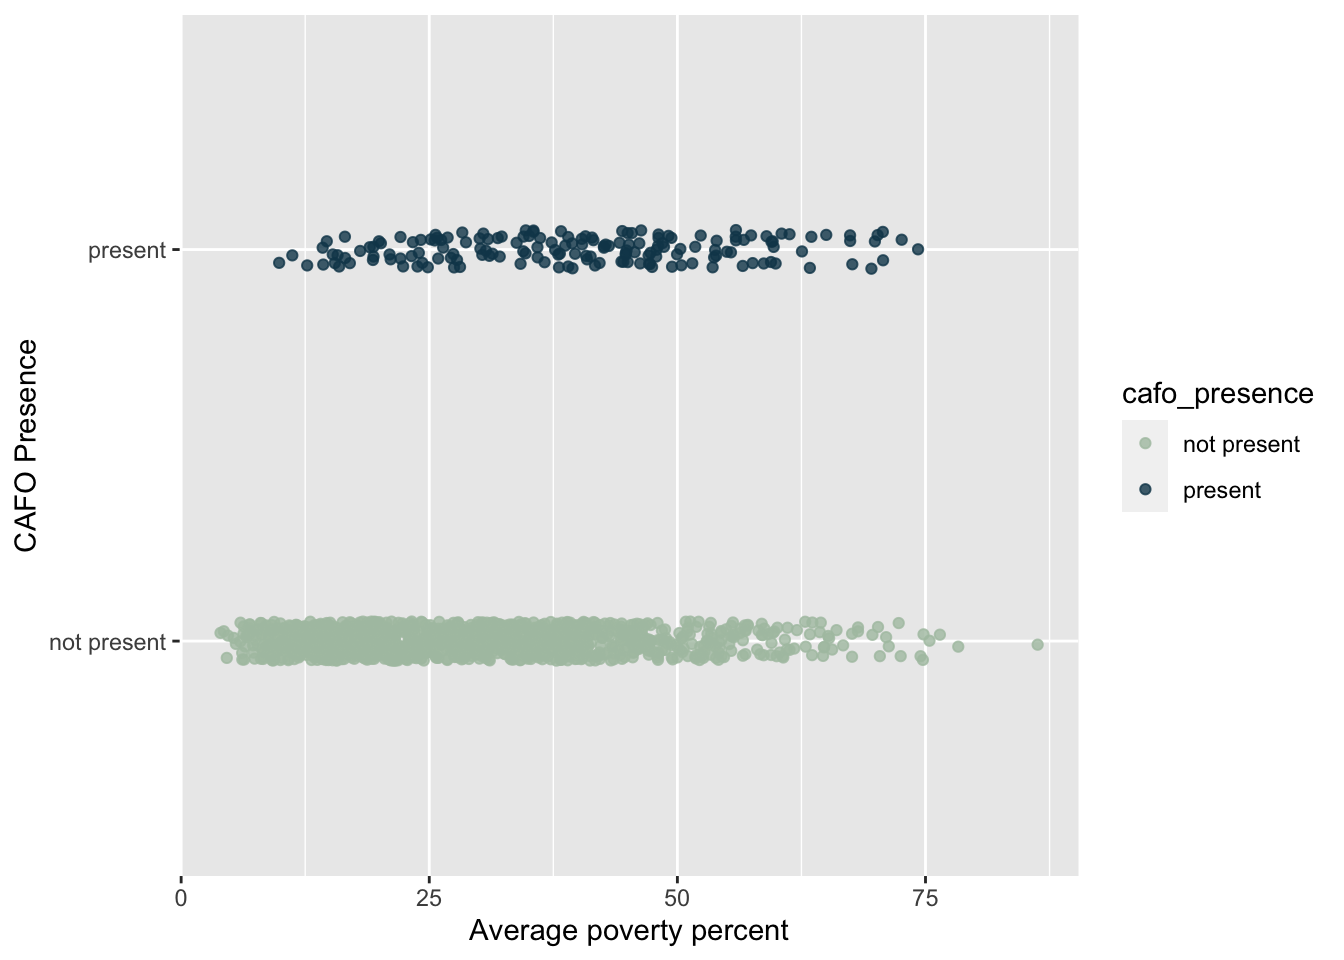
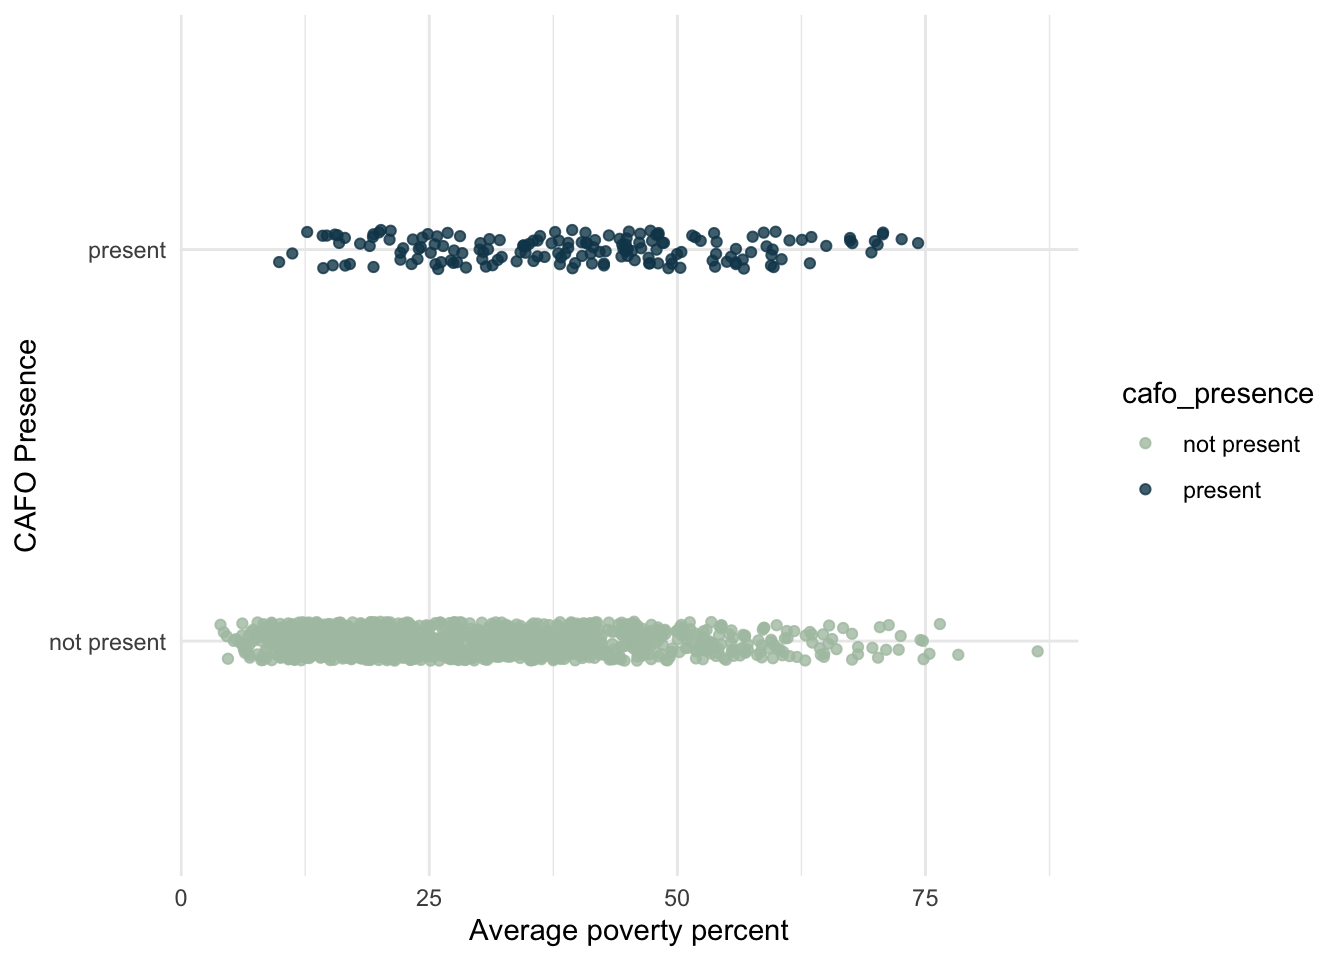
updating cafo blog plots

diff --git a/docs/posts/2022-12-03-cafo-presence /index.html b/docs/posts/2022-12-03-cafo-presence /index.html
@@ -206,7 +206,6 @@ code span.wa { color: #60a0b0; font-weight: bold; font-style: italic; } /* Warni
 <div class="quarto-title">
 <h1 class="title">Predicting CAFO presence in California based on poverty rates</h1>
   <div class="quarto-categories">
-    <div class="quarto-category">MEDS</div>
     <div class="quarto-category">R</div>
     <div class="quarto-category">Statistical Analysis</div>
     <div class="quarto-category">Binary Logistic Regression</div>
@@ -219,23 +218,16 @@ code span.wa { color: #60a0b0; font-weight: bold; font-style: italic; } /* Warni
   </div>
 </div>
 
-<div class="quarto-title-meta-author">
-  <div class="quarto-title-meta-heading">Author</div>
-  <div class="quarto-title-meta-heading">Affiliation</div>
-  
-    <div class="quarto-title-meta-contents">
-    Alex Reed 
-  </div>
-    <div class="quarto-title-meta-contents">
-        <p class="affiliation">
-            MEDS
-          </p>
-      </div>
-    </div>
 
 <div class="quarto-title-meta">
 
-      
+    <div>
+    <div class="quarto-title-meta-heading">Author</div>
+    <div class="quarto-title-meta-contents">
+             <p>Alex Reed </p>
+          </div>
+  </div>
+    
     <div>
     <div class="quarto-title-meta-heading">Published</div>
     <div class="quarto-title-meta-contents">
@@ -420,7 +412,8 @@ code span.wa { color: #60a0b0; font-weight: bold; font-style: italic; } /* Warni
 <span id="cb7-6"><a href="#cb7-6" aria-hidden="true" tabindex="-1"></a>                 <span class="at">alpha =</span> <span class="fl">0.8</span>) <span class="sc">+</span></span>
 <span id="cb7-7"><a href="#cb7-7" aria-hidden="true" tabindex="-1"></a>      <span class="fu">labs</span>(<span class="at">x =</span> <span class="st">"Average poverty percent"</span>, </span>
 <span id="cb7-8"><a href="#cb7-8" aria-hidden="true" tabindex="-1"></a>           <span class="at">y =</span> <span class="st">"CAFO Presence"</span>)</span>
-<span id="cb7-9"><a href="#cb7-9" aria-hidden="true" tabindex="-1"></a>joined_plot <span class="sc">+</span> <span class="fu">scale_color_manual</span>(<span class="at">values =</span> <span class="fu">c</span>(<span class="st">"#aec3b0"</span>, <span class="st">"#124559"</span>))</span></code><button title="Copy to Clipboard" class="code-copy-button"><i class="bi"></i></button></pre></div>
+<span id="cb7-9"><a href="#cb7-9" aria-hidden="true" tabindex="-1"></a>joined_plot <span class="sc">+</span> <span class="fu">scale_color_manual</span>(<span class="at">values =</span> <span class="fu">c</span>(<span class="st">"#aec3b0"</span>, <span class="st">"#124559"</span>)) <span class="sc">+</span></span>
+<span id="cb7-10"><a href="#cb7-10" aria-hidden="true" tabindex="-1"></a>  <span class="fu">theme_minimal</span>()</span></code><button title="Copy to Clipboard" class="code-copy-button"><i class="bi"></i></button></pre></div>
 </details>
 <div class="cell-output-display">
 <div class="quarto-figure quarto-figure-center">
@@ -540,7 +533,8 @@ code span.wa { color: #60a0b0; font-weight: bold; font-style: italic; } /* Warni
 <span id="cb10-9"><a href="#cb10-9" aria-hidden="true" tabindex="-1"></a>       <span class="at">y =</span> <span class="st">"CAFO Presence"</span>)</span>
 <span id="cb10-10"><a href="#cb10-10" aria-hidden="true" tabindex="-1"></a>joined_plot2 <span class="sc">+</span> <span class="fu">scale_color_manual</span>(<span class="at">values =</span> <span class="fu">c</span>(<span class="st">"#aec3b0"</span>, <span class="st">"#124559"</span>)) <span class="sc">+</span></span>
 <span id="cb10-11"><a href="#cb10-11" aria-hidden="true" tabindex="-1"></a>  <span class="fu">geom_smooth</span>(<span class="at">method =</span> <span class="st">"glm"</span>, <span class="at">se =</span> <span class="cn">FALSE</span>, <span class="at">color =</span> <span class="st">"#598392"</span>, </span>
-<span id="cb10-12"><a href="#cb10-12" aria-hidden="true" tabindex="-1"></a>              <span class="at">method.args =</span> <span class="fu">list</span>(<span class="at">family =</span> <span class="st">"binomial"</span>))</span></code><button title="Copy to Clipboard" class="code-copy-button"><i class="bi"></i></button></pre></div>
+<span id="cb10-12"><a href="#cb10-12" aria-hidden="true" tabindex="-1"></a>              <span class="at">method.args =</span> <span class="fu">list</span>(<span class="at">family =</span> <span class="st">"binomial"</span>)) <span class="sc">+</span></span>
+<span id="cb10-13"><a href="#cb10-13" aria-hidden="true" tabindex="-1"></a>  <span class="fu">theme_minimal</span>()</span></code><button title="Copy to Clipboard" class="code-copy-button"><i class="bi"></i></button></pre></div>
 </details>
 <div class="cell-output-display">
 <div class="quarto-figure quarto-figure-center">
@@ -564,7 +558,8 @@ code span.wa { color: #60a0b0; font-weight: bold; font-style: italic; } /* Warni
 <span id="cb11-6"><a href="#cb11-6" aria-hidden="true" tabindex="-1"></a>  <span class="fu">geom_point</span>(<span class="at">color =</span> <span class="st">"#124559"</span>) <span class="sc">+</span> </span>
 <span id="cb11-7"><a href="#cb11-7" aria-hidden="true" tabindex="-1"></a>  <span class="fu">geom_line</span>(<span class="at">color =</span> <span class="st">"#598392"</span>) <span class="sc">+</span> </span>
 <span id="cb11-8"><a href="#cb11-8" aria-hidden="true" tabindex="-1"></a>  <span class="fu">scale_y_continuous</span>(<span class="st">"Probability of CAFO Presence"</span>, <span class="at">limits =</span> <span class="fu">c</span>(<span class="dv">0</span>, <span class="dv">1</span>)) <span class="sc">+</span></span>
-<span id="cb11-9"><a href="#cb11-9" aria-hidden="true" tabindex="-1"></a>  <span class="fu">labs</span>(<span class="at">x =</span> <span class="st">"Average poverty percent"</span>)</span></code><button title="Copy to Clipboard" class="code-copy-button"><i class="bi"></i></button></pre></div>
+<span id="cb11-9"><a href="#cb11-9" aria-hidden="true" tabindex="-1"></a>  <span class="fu">labs</span>(<span class="at">x =</span> <span class="st">"Average poverty percent"</span>) <span class="sc">+</span></span>
+<span id="cb11-10"><a href="#cb11-10" aria-hidden="true" tabindex="-1"></a>  <span class="fu">theme_minimal</span>()</span></code><button title="Copy to Clipboard" class="code-copy-button"><i class="bi"></i></button></pre></div>
 </details>
 <div class="cell-output-display">
 <div class="quarto-figure quarto-figure-center">
@@ -588,7 +583,8 @@ code span.wa { color: #60a0b0; font-weight: bold; font-style: italic; } /* Warni
 <span id="cb12-5"><a href="#cb12-5" aria-hidden="true" tabindex="-1"></a>  <span class="fu">geom_point</span>(<span class="at">color =</span> <span class="st">"#124559"</span>) <span class="sc">+</span> </span>
 <span id="cb12-6"><a href="#cb12-6" aria-hidden="true" tabindex="-1"></a>  <span class="fu">geom_line</span>(<span class="at">color =</span> <span class="st">"#598392"</span>) <span class="sc">+</span> </span>
 <span id="cb12-7"><a href="#cb12-7" aria-hidden="true" tabindex="-1"></a>  <span class="fu">scale_y_continuous</span>(<span class="st">"Odds of CAFO Presence"</span>) <span class="sc">+</span></span>
-<span id="cb12-8"><a href="#cb12-8" aria-hidden="true" tabindex="-1"></a>  <span class="fu">labs</span>(<span class="at">x =</span> <span class="st">"Average poverty percent"</span>)</span></code><button title="Copy to Clipboard" class="code-copy-button"><i class="bi"></i></button></pre></div>
+<span id="cb12-8"><a href="#cb12-8" aria-hidden="true" tabindex="-1"></a>  <span class="fu">labs</span>(<span class="at">x =</span> <span class="st">"Average poverty percent"</span>) <span class="sc">+</span></span>
+<span id="cb12-9"><a href="#cb12-9" aria-hidden="true" tabindex="-1"></a>  <span class="fu">theme_minimal</span>()</span></code><button title="Copy to Clipboard" class="code-copy-button"><i class="bi"></i></button></pre></div>
 </details>
 <div class="cell-output-display">
 <div class="quarto-figure quarto-figure-center">

diff --git a/docs/blog_posts.html b/docs/blog_posts.html
@@ -232,7 +232,7 @@ Dec 7, 2022
 </div>
 </a>
 </div>
-<div class="g-col-1" data-index="2" data-categories="R,Statistical Analysis,Binary Logistic Regression" data-listing-date-sort="1670054400000" data-listing-file-modified-sort="1677342912818" data-listing-reading-time-sort="10.945">
+<div class="g-col-1" data-index="2" data-categories="R,Statistical Analysis,Binary Logistic Regression" data-listing-date-sort="1670054400000" data-listing-file-modified-sort="1691621317218" data-listing-reading-time-sort="11.005">
 <a href="./posts/2022-12-03-cafo-presence /index.html" class="quarto-grid-link">
 <div class="quarto-grid-item card h-100 card-left">
 <p class="card-img-top">
